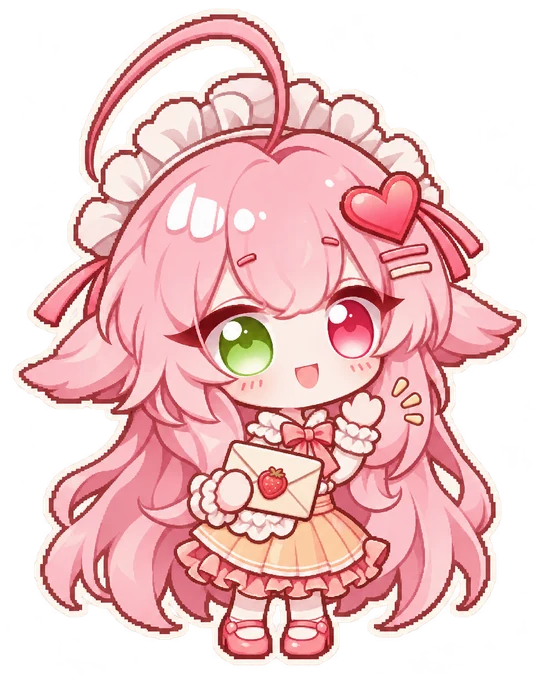
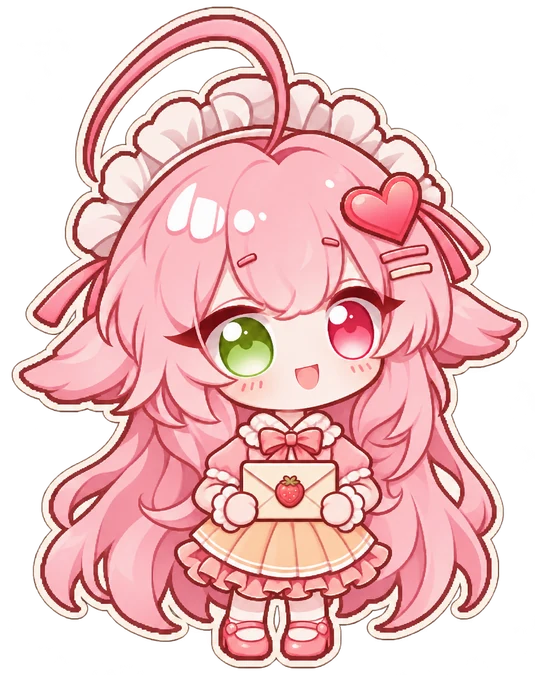
Link the countdown to Fufu's profile and refine her invitation pose

Changed region(s): [[0.0296, 0.0, 0.9778, 0.9956], [0.5333, 0.5289, 0.5926, 0.56]]

diff --git a/src/launch/view.ts b/src/launch/view.ts
@@ -1,3 +1,4 @@
+import { anniversary } from "./anniversary";
 import cottage from "./launch-cottage.webp";
 import fufu from "./launch-fufu.webp";
 import foxLetter from "./launch-fox-letter.webp";
@@ -52,7 +53,7 @@ export function createCountdownView(root: HTMLElement) {
         <img class="launch-landscape" src="${cottage}" width="1280" height="533"
           alt="月光下，晚安小屋亮起了暖灯。">
         <img class="launch-hostess" src="${fufu}" width="540" height="675"
-          alt="戴着白色荷叶边发箍的 Q 版芙芙在小屋前挥手，怀里抱着一封草莓印章邀请函。" fetchpriority="high">
+          alt="戴着白色荷叶边发箍的 Q 版芙芙在小屋前双手捧着一封草莓印章邀请函。" fetchpriority="high">
         <i class="launch-glimmer" aria-hidden="true"></i>
         <div class="launch-fireflies" aria-hidden="true"><i></i><i></i><i></i></div>
         <span class="launch-bow" aria-hidden="true"><i></i><b></b></span>
@@ -64,6 +65,8 @@ export function createCountdownView(root: HTMLElement) {
         </div>
         <p class="launch-waiting" role="status" hidden>小屋正在准备开放</p>
         <p class="launch-date"><span>北京时间</span><time></time></p>
+        <a class="launch-visit" href="${anniversary.bilibili}" target="_blank" rel="noopener noreferrer"
+          aria-label="去见芙芙（在新标签页打开哔哩哔哩）">去见芙芙 <span aria-hidden="true">↗</span></a>
       </div>
       <footer class="launch-keepsakes" aria-label="邀请人">
         <img class="launch-keepsake launch-fox-letter" src="${foxLetter}" alt="">

diff --git a/src/launch/invitation.css b/src/launch/invitation.css
@@ -412,6 +412,28 @@ html.launch-present body {
 }
 .launch-date span { font-weight: 650; }
 .launch-date time { white-space: pre; }
+.launch-visit {
+  display: inline-flex;
+  align-items: center;
+  justify-content: center;
+  gap: 9px;
+  min-height: 44px;
+  margin: 12px auto 4px;
+  padding: 9px 22px;
+  border: 1px solid #803b55;
+  border-radius: 8px;
+  box-shadow: inset 0 1px #f1b1bf85, 0 2px 0 #e0b2c0;
+  background: #974460;
+  color: #fff8f4;
+  font: inherit;
+  font-weight: 700;
+  text-decoration: none;
+}
+.launch-visit:hover { background: #813752; }
+.launch-visit:focus-visible {
+  outline: 2px solid var(--rose);
+  outline-offset: 3px;
+}
 .launch-keepsakes {
   display: flex;
   justify-content: center;

diff --git a/src/content.ts b/src/content.ts
@@ -1,3 +1,5 @@
+export { anniversary } from "./launch/anniversary.ts";
+
 const morning = new URL("./assets/album-v36/morning.webp", import.meta.url).href;
 const morningThumb = new URL("./assets/album-v36/morning-thumb.webp", import.meta.url).href;
 const reading = new URL("./assets/album-v36/reading.webp", import.meta.url).href;
@@ -23,13 +25,6 @@ export interface Collection {
   kind: MediaKind;
   items: Memory[];
 }
-
-export const anniversary = {
-  name: "芙眠眠",
-  start: "2025.12.01",
-  end: "2026.12.01",
-  bilibili: "https://space.bilibili.com/3546844953054084",
-};
 
 export interface CreditStar {
   id: string;

diff --git a/src/launch/anniversary.ts b/src/launch/anniversary.ts
@@ -1,0 +1,6 @@
+export const anniversary = {
+  name: "芙眠眠",
+  start: "2025.12.01",
+  end: "2026.12.01",
+  bilibili: "https://space.bilibili.com/3546844953054084",
+};

diff --git a/doc/artwork/ARTWORK-launch.md b/doc/artwork/ARTWORK-launch.md
@@ -10,7 +10,7 @@ Use case: stylized-concept. Standalone pixel-art illustration for an anniversary
 
 ## 手持邀请函的芙芙
 
-小屋前的全身 Q 版芙芙参考了作者提供的三张大头小人图。白色荷叶边发箍托起弧形呆毛，爱心发夹在观者右侧，双眼左绿右玫红。她穿着杏色短裙与粉色搭扣鞋，一手抱着草莓封印的邀请函，另一只手举到脸旁打招呼。
+小屋前的全身 Q 版芙芙参考了作者提供的三张大头小人图。白色荷叶边发箍托起弧形呆毛，爱心发夹在观者右侧，双眼左绿右玫红。她穿着杏色短裙与粉色搭扣鞋，双手从两侧捧住草莓封印的邀请函。
 
 原画使用 imagegen 生成，保留透明背景，裁去外圈空白后按原比例导出为 `src/launch/launch-fufu.webp`（540 × 675）。在手机上单独调整夜景裁切，人物始终完整显示到鞋尖。
 
